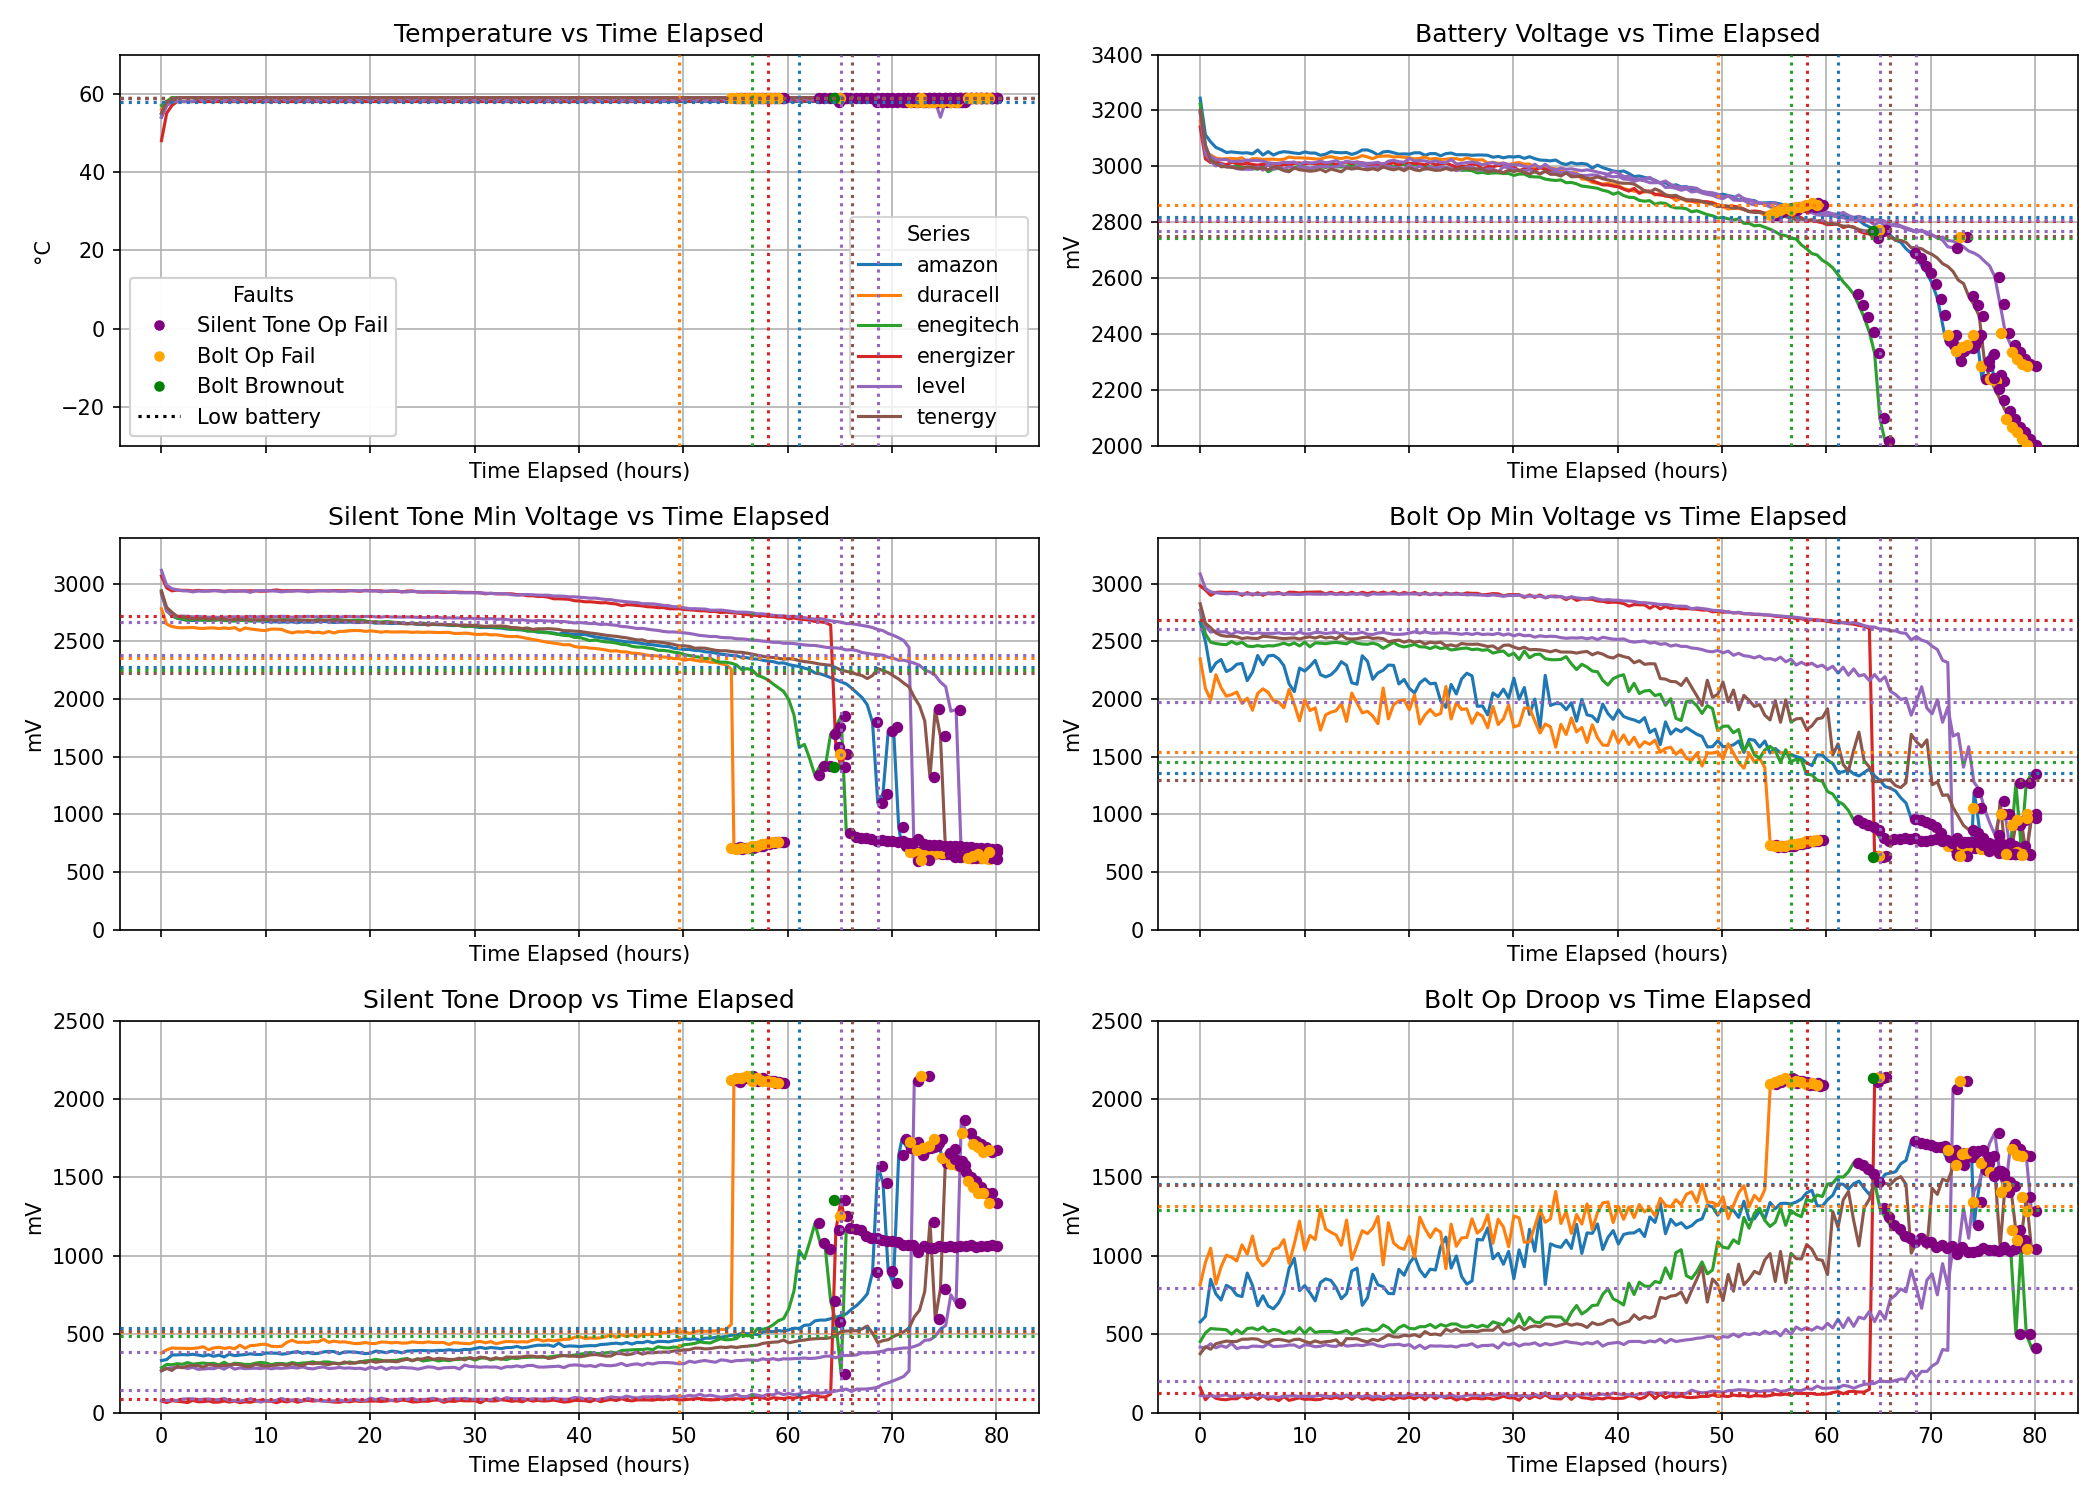
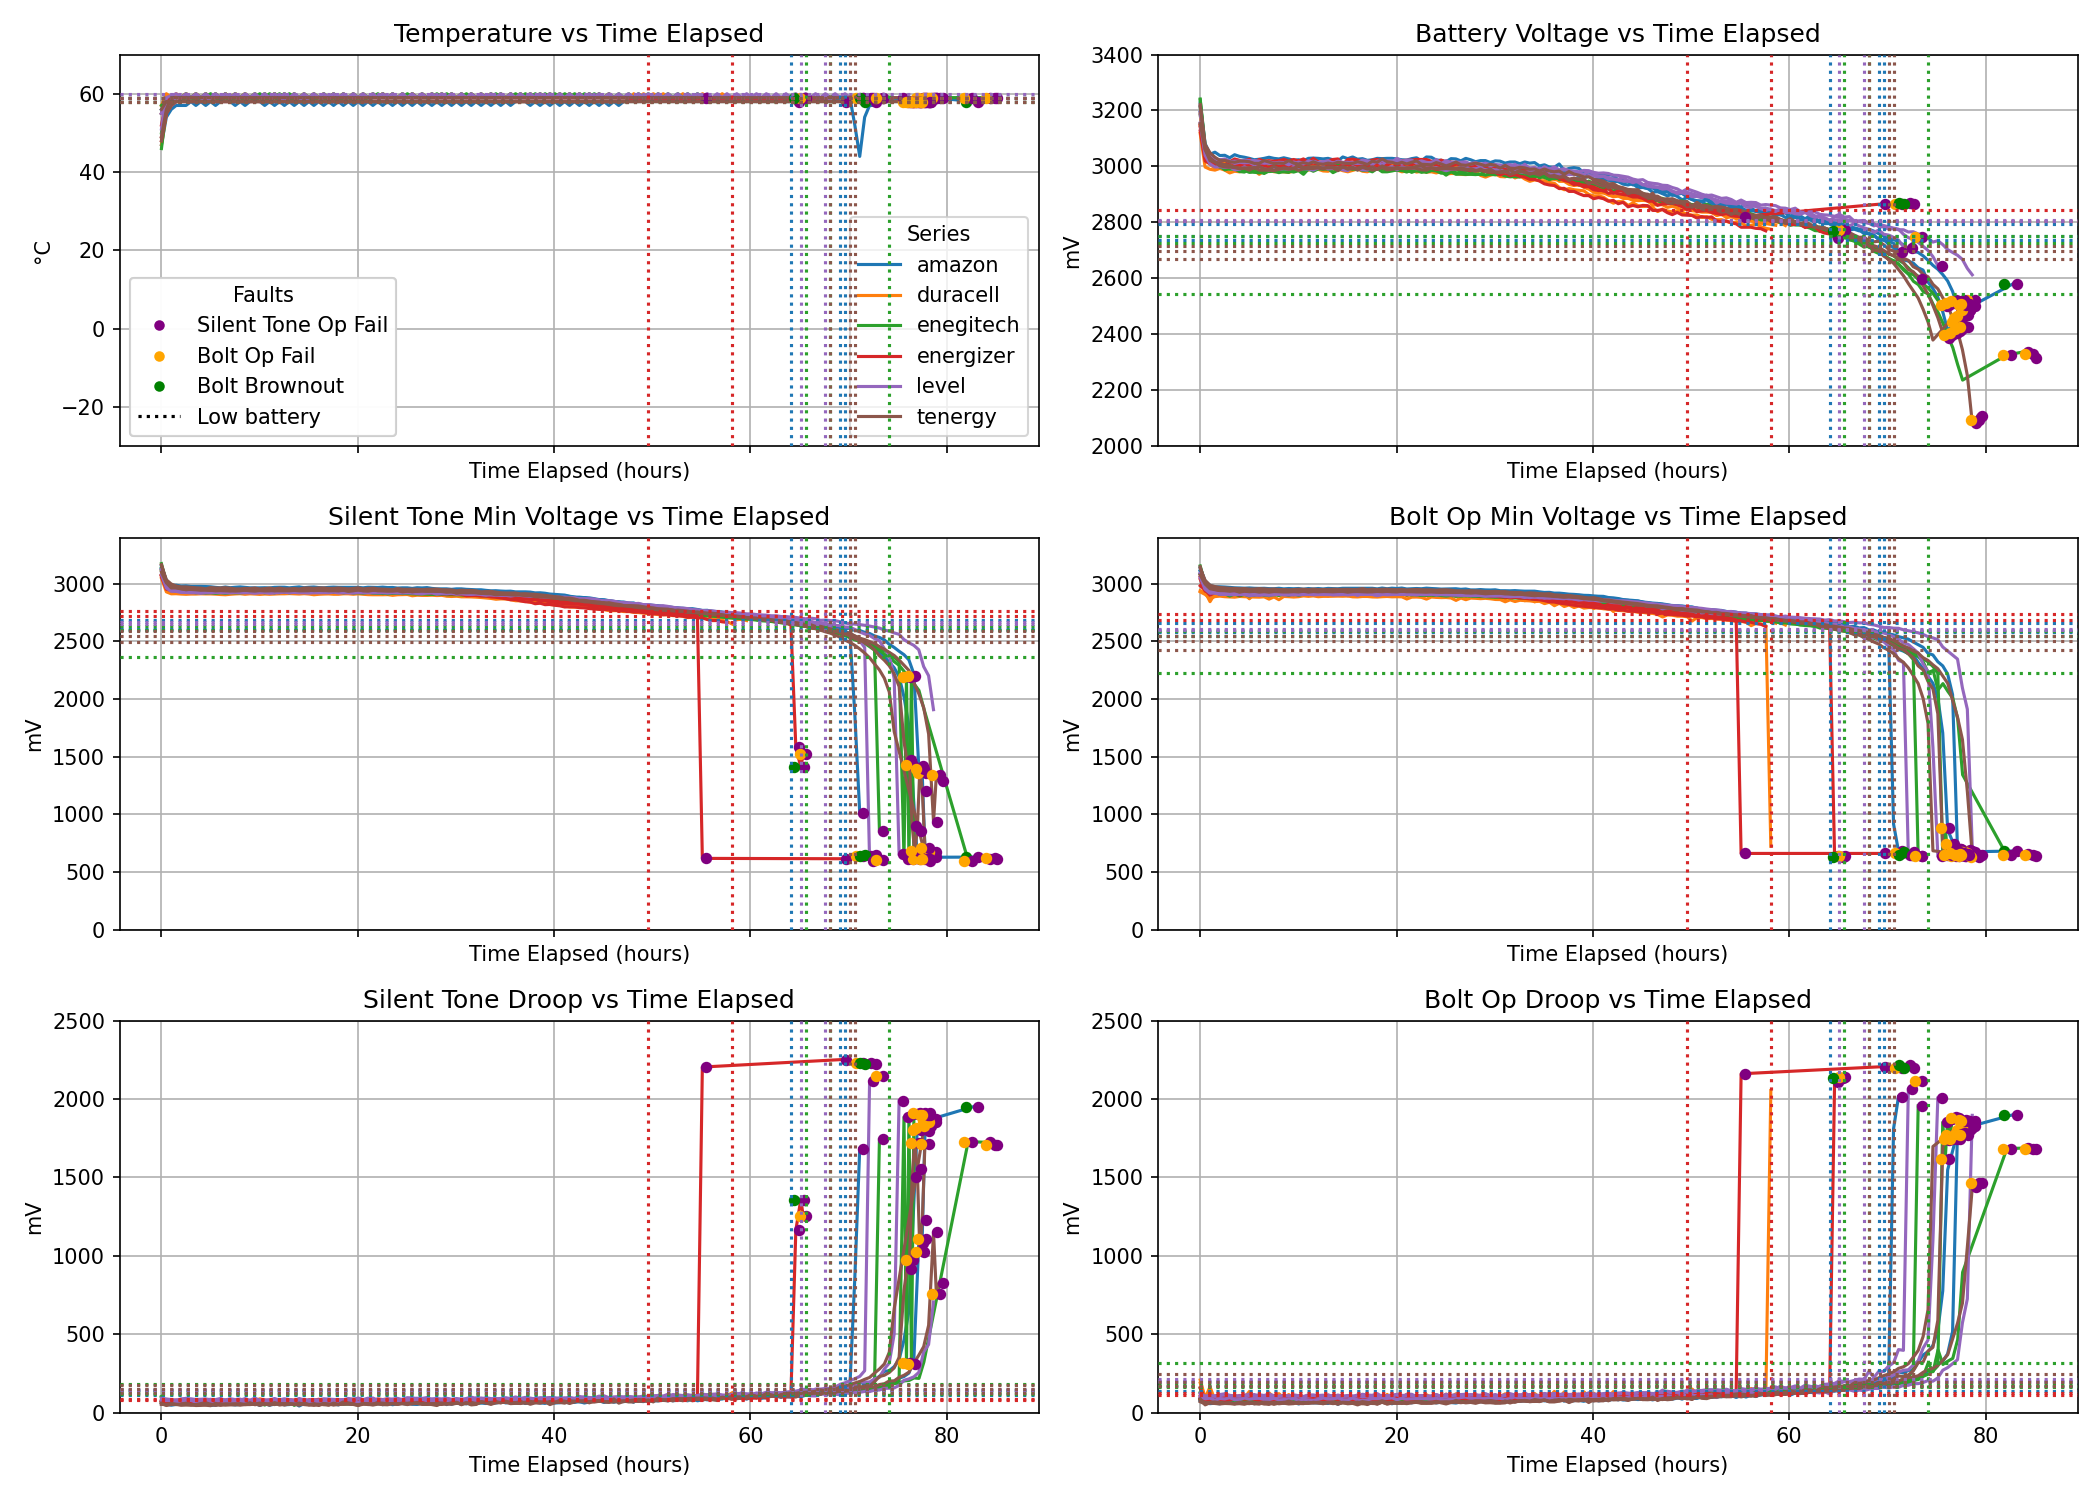
60c

diff --git a/plot_by_subfolder.py b/plot_by_subfolder.py
@@ -6,7 +6,7 @@ import numpy as np
 from matplotlib.lines import Line2D
 
 # CONFIGURATION
-CSV_DIR = "csvs/manufacturers-cross-temp/temp-20c"
+CSV_DIR = "csvs/manufacturers-cross-temp/temp-60c"
 CSV_TAG = os.path.basename(os.path.normpath(CSV_DIR))
 PLOT_OUTPUT = f"plots/compare_all_{CSV_DIR.replace("/","-")}.png"
 COMPUTE_LOW_BATT_BY_ALL_FAULTS=True
